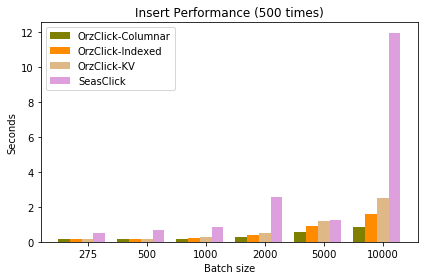
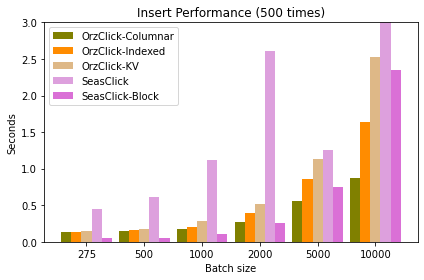
Bench: Add SeasClick continuous insert

diff --git a/bench/insert-seasclick-block.php b/bench/insert-seasclick-block.php
@@ -1,0 +1,47 @@
+<?php
+
+include_once __DIR__ . '/config.php';
+
+$insert = $argv[1];
+$loop   = $argv[2];
+
+$client = seasclickClient();
+
+$columns = [
+    'u8',
+    'u16',
+    'u32',
+    'u64',
+
+    'i8',
+    'i16',
+    'i32',
+    'i64',
+
+    'f32',
+    'f64',
+];
+
+for ($i = 1; $i <= $insert; $i++) {
+    $data[] = [
+       $i,
+       $i * 2,
+       $i * 3,
+       $i * 4,
+
+       $i,
+       $i * -2,
+       $i * -3,
+       $i * -4,
+
+       $i * 5,
+       $i * 6,
+    ];
+}
+
+$client->writeStart('default.insert_test', $columns);
+
+for ($j = 0; $j < $loop; $j++) {
+    $client->write($data);
+}
+$client->writeEnd();
